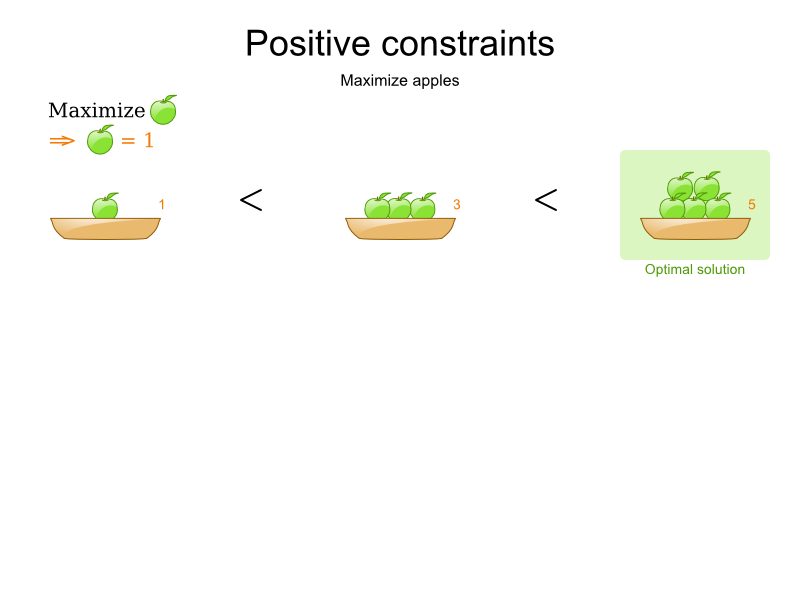
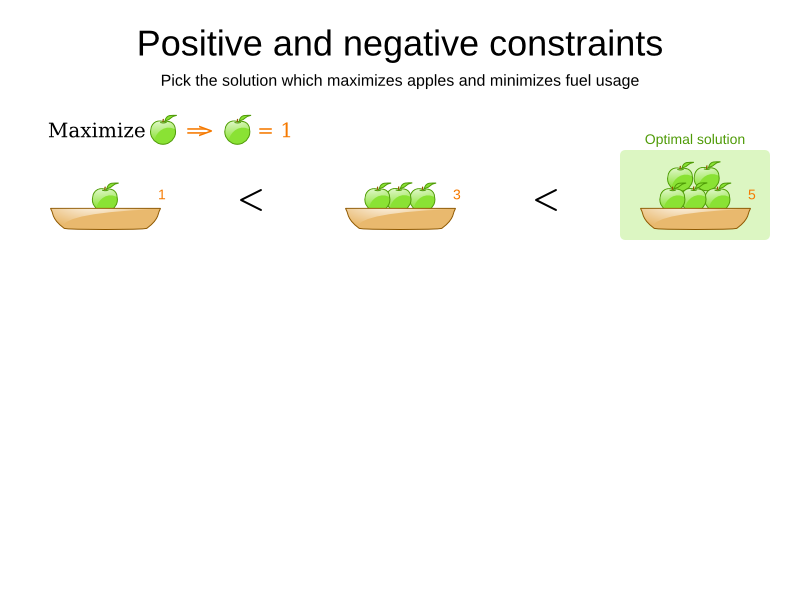
docs: improve positive and negative constraints slide

diff --git a/learn/slides/optaplanner-presentation/index.html b/learn/slides/optaplanner-presentation/index.html
@@ -997,6 +997,8 @@ $ mvn exec:exec
         <img src="score_calculation/positiveAndNegativeConstraints_1.png" class="fullImage fragment">
         <img src="score_calculation/positiveAndNegativeConstraints_2.png" class="fullImage fragment">
         <img src="score_calculation/positiveAndNegativeConstraints_3.png" class="fullImage fragment">
+        <img src="score_calculation/positiveAndNegativeConstraints_4.png" class="fullImage fragment">
+        <img src="score_calculation/positiveAndNegativeConstraints_5.png" class="fullImage fragment">
     </section>
     <section>
         <img src="score_calculation/scoreWeighting_0.png" class="fullImage">
